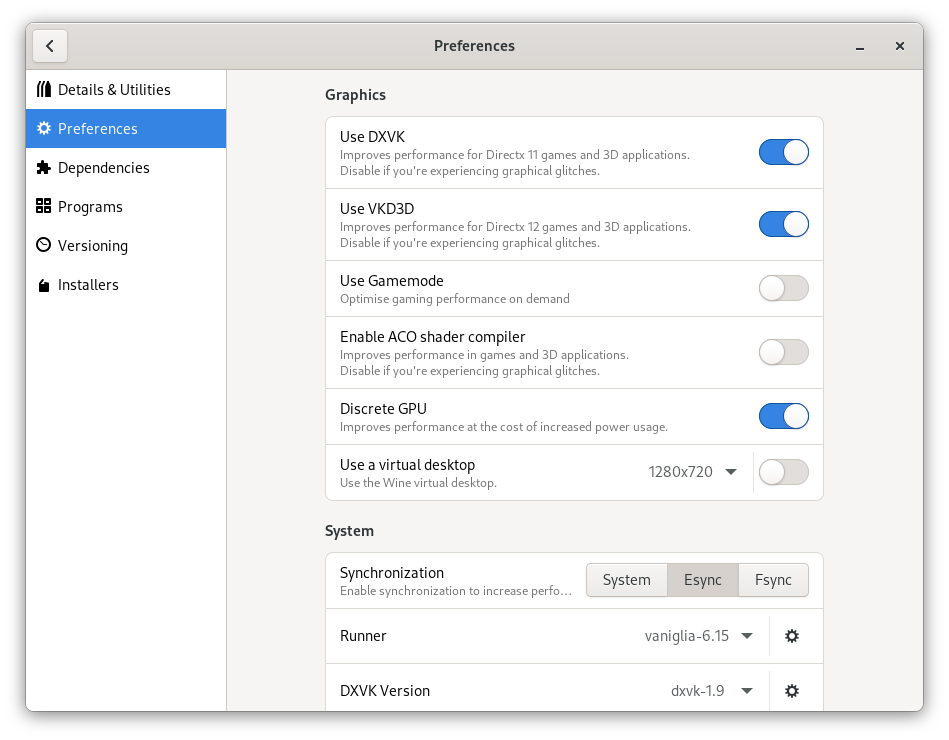
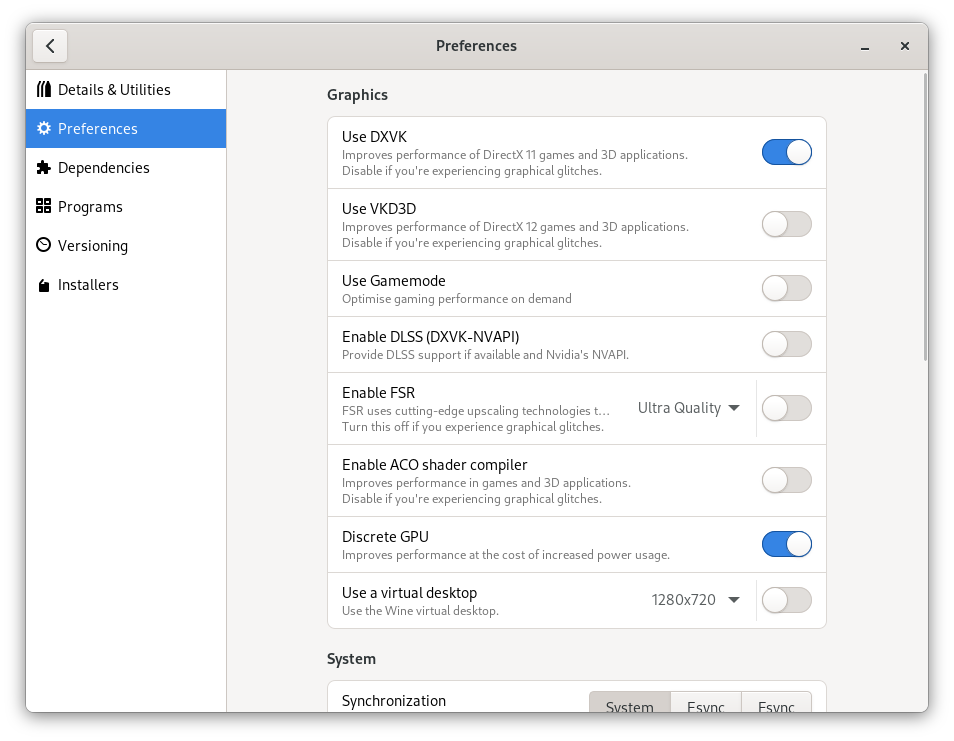
update features and colors

diff --git a/assets/css/style.css b/assets/css/style.css
@@ -30,9 +30,9 @@ article .more {
 }
 
 .mdi {
-    position: relative;
-    top: 6px;
-    margin: -9px 0 0 0;
+    /* position: relative; */
+    /* top: 6px; */
+    /* margin: -9px 0 0 0; */
 }
 
 nav {
@@ -45,6 +45,7 @@ nav {
     align-items: center;
     justify-content: space-between;
     gap: 5px;
+    border-bottom: 1px solid #f2f3f3;
 }
 
 nav a>img {
@@ -70,6 +71,20 @@ nav a.button {
     color: #fff;
     border-radius: .3rem;
     display: flex;
+    align-items: center;
+    gap: 10px;
+}
+
+.button.secondary {
+    background-color: #515d70;
+}
+
+.button.secondary:hover {
+    background-color: #434d5c;
+}
+
+.button.secondary:active,.button.secondary:focus {
+    background-color: #353d48;
 }
 
 article .button {
@@ -126,10 +141,13 @@ section p {
 }
 
 section .button {
-    display: inline-block;
+    display: inline-flex;
     font-size: 20px;
-    padding: .8rem 1.5rem;
+    padding: .8rem 1.2rem;
     font-weight: 500;
+    gap: 5px;
+    align-items: center;
+    justify-content: center;
 }
 
 section.hero h1 strong {
@@ -256,6 +274,8 @@ table td b {
     padding: .2rem .6rem;
     color: #FFF;
     font-size: 14px;
+    font-weight: 500;
+    letter-spacing: .5px;
 }
 
 span.tag.tag-Fonts {
@@ -512,7 +532,12 @@ section.downloads .container>.image img {
     width: 100%;
 }
 
-.page.blog article:first-of-type, .button:not(.link), .card, .modal>div, .next, .message {
+.page.blog article:first-of-type,
+.button:not(.link),
+.card,
+.modal>div,
+.next,
+.message {
     box-shadow: 0 1px 3px rgb(0 0 0 / 10%), 0 5px 10px rgb(0 0 0 / 6%);
 }
 
@@ -547,10 +572,9 @@ section.heading .background {
 
 .button.icon-slot .mdi {
     background-color: #0000003d;
-    top: 7px;
     padding: 5px;
     width: 30px;
-    margin: -14px 7px 0 0;
+    margin: -8px 0;
     border-top-left-radius: .3rem;
     border-bottom-left-radius: .3rem;
     text-align: center;
@@ -691,6 +715,9 @@ section.heading .background {
 
 .feature-display .description h2 {
     font-size: 2.2em;
+    display: flex;
+    align-items: center;
+    gap: 10px;
 }
 
 nav ul {
@@ -730,7 +757,10 @@ nav ul {
     text-align: center;
 }
 
-input[type="text"],input[type="email"],input[type="password"],input[type="search"] {
+input[type="text"],
+input[type="email"],
+input[type="password"],
+input[type="search"] {
     font-size: 21px;
     padding: 10px;
     min-width: 510px;
@@ -740,9 +770,9 @@ input[type="text"],input[type="email"],input[type="password"],input[type="search
     box-shadow: 0 1px 3px rgb(0 0 0 / 10%), 0 5px 10px rgb(0 0 0 / 6%), 0 1px 0 0 #d7d7d7;
 }
 
-input[type="text"]:focus, 
-input[type="email"]:focus, 
-input[type="password"]:focus, 
+input[type="text"]:focus,
+input[type="email"]:focus,
+input[type="password"]:focus,
 input[type="search"]:focus {
     border-color: #1c71d8;
     box-shadow: 0 0 13px 0 #2263db66, 0 1px 3px rgb(0 0 0 / 10%), 0 5px 10px rgb(0 0 0 / 6%), 0 1px 0 0 #d7d7d7;
@@ -803,6 +833,90 @@ input[type="search"]:focus {
 
 .card-content .actions a:hover {
     color: #1c71d8;
+}
+
+.feature-display.invert {
+    flex-direction: row-reverse;
+}
+
+.feature-display.center {
+    display: flex;
+    flex-direction: column;
+    align-items: center;
+    align-content: center;
+    margin: 0 auto;
+}
+
+.feature-display.center .description {
+    text-align: center;
+    max-width: 700px;
+    padding: 0;
+}
+
+.feature-display.has-icon > .mdi {
+    font-size: 5em;
+}
+
+.feature-display.center .description h2 {
+    justify-content: center;
+}
+
+.feature-display .description h2 .mdi {
+    font-size: 1em;
+}
+
+.hero.yellow {
+    background: #f2d6a9;
+}
+
+.hero.yellow .button {
+    background-color: #7c6b50;
+}
+
+.hero.yellow .button:hover {
+    background-color: #726349;
+}
+
+.hero.yellow .tag,
+.hero.yellow .button:active,
+.hero.yellow .button:focus {
+    background-color: #685739;
+}
+
+.hero.blue {
+    background: #c2d9eb;
+}
+
+.hero.blue .button {
+    background-color: #52595e;
+}
+
+.hero.blue .button:hover {
+    background-color: #4b5256;
+}
+
+.hero.blue .tag,
+.hero.blue .button:active,
+.hero.blue .button:focus {
+    background-color: #3f464a;
+}
+
+.hero.orange {
+    background: #f8bea8;
+}
+
+.hero.orange .button {
+    background-color: #a17c6f;
+}
+
+.hero.orange .button:hover {
+    background-color: #8f6d62;
+}
+
+.hero.orange .tag,
+.hero.orange .button:active,
+.hero.orange .button:focus {
+    background-color: #7a5d53;
 }
 
 
@@ -877,14 +991,16 @@ input[type="search"]:focus {
     .feature-display {
         display: block;
     }
-    
+
     .feature-display .description {
         padding: 0 20px;
     }
 }
 
 @media screen and (max-width:860px) {
-    nav, nav ul {
+
+    nav,
+    nav ul {
         text-align: center;
         flex-direction: column;
     }

diff --git a/index.html b/index.html
@@ -21,20 +21,80 @@ description: Run Windows programs on Linux.
     <a class="button" href="/download" title="Download Bottles"><span class="mdi material-icons-outlined"> file_download </span>Download</a>
     <div class="more-links">
       <a href="https://flathub.org/apps/details/com.usebottles.bottles">Flathub</a> | 
-      <a href="https://snapcraft.io/bottles">Snapcraft</a> | 
+      <!--<a href="https://snapcraft.io/bottles">Snapcraft</a> | -->
       <a href="https://aur.archlinux.org/packages/bottles/">AUR</a>
     </div>
     <img class="animate__animated animate__fadeInUp" src="https://raw.githubusercontent.com/bottlesdevs/Bottles/master/screenshot.png" />
   </div>
 </section>
 
-<section class="hero">
+<section class="hero yellow">
   <div class="feature-display">
     <div class="description">
-      <h2>Highly tweakable</h2>
+      <h2>Empowered by <u>environments</u></h2>
+      <p>Bottles introduces a new way to handle Windows prefixes using 
+        environments, a combination of ready-to-use settings, libraries and 
+        dependencies.</p>
+      <p>Choose between <span class="tag">Gaming</span> and 
+        <span class="tag">Software</span> environment based on the type of 
+        software you want to start.</p>
+      <p>More advanced users can choose the <span class="tag">Custom</span> 
+        environment to configure the bottle on their own.</p>
+      <a href="https://docs.usebottles.com/getting-started/environments" 
+         class="button">
+        More about</a>
+    </div>
+    <img alt="Bottles highly customisable" src="/uploads/bottles-environments.png" />
+</section>
+
+<section class="hero invert blue">
+  <div class="feature-display invert">
+    <div class="description">
+      <h2>Highly <u>tweakable</u></h2>
       <p>Customize your Windows environment with ease.</p>
-      <p>Choose whether to use dxvk, vkd3d, gamemode, esync, fsync or other, Bottles will handle it all for you.</p>
+      <p>Choose whether to use dxvk, vkd3d, gamemode, esync, fsync or other, 
+        Bottles will handle it all for you.</p>
       <p>Change runners on the fly or install new ones for all your tests.</p>
+      <a href="https://docs.usebottles.com/getting-started/environments" 
+         class="button">
+        More about</a>
     </div>
     <img alt="Bottles highly customisable" src="/uploads/bottles-customizable.png" />
+</section>
+
+<section class="hero orange">
+  <div class="feature-display">
+    <div class="description">
+      <h2>Integrated <u>dependency manager</u></h2>
+      <p>Windows software need dependencies to properly works.</p>
+      <p>Bottles comes with a powerful and easy-to-use dependency manager that 
+        automates this task.</p>
+      <p>Just look for the package you need and then "install", Bottles will 
+        take care of everything for you.</p>
+      <a href="https://docs.usebottles.com/getting-started/environments" 
+          class="button">
+        More about</a>
+    </div>
+    <img alt="Bottles highly customisable" src="/uploads/bottles-dependencies-manager.png" />
+</section>
+
+<section class="hero">
+  <div class="feature-display center">
+    <div class="description">
+      <h2>
+        <span class="mdi material-icons-outlined"> security </span>
+        Safe. <u>Sandboxed.</u>
+      </h2>
+      <p>Your bottles are isolated from the system and will only hit your 
+        personal files when you decide.</p>
+      <p>The full-sandbox is provided and pre-configured only using the 
+        <a href="https://flathub.org/apps/details/com.usebottles.bottles">
+          Flatpak package</a> (highly recommended).</p>
+      <p>All other packages still have access to the partial sandbox which 
+        isolates the bottle files and prevents them from accessing your 
+        homedir.</p>
+      <a href="https://docs.usebottles.com/getting-started/environments" 
+          class="button secondary">
+        More about</a>
+    </div>
 </section>

diff --git a/_includes/head.html b/_includes/head.html
@@ -1,5 +1,6 @@
 <meta charset="UTF-8">
 <meta name="viewport" content="width=device-width, initial-scale=1.0">
 <title>{% if page.title %}{{ page.title }} &sdot; {% endif %}{{ site.title }}</title>
-<link rel="stylesheet" type="text/css" href="{{ site.assets }}/css/style.css?v13" />
+<link rel="stylesheet" type="text/css" href="{{ site.assets }}/css/style.css?v14" />
+<script src="{{ site.assets }}/js/scripts.js?v1"></script>
 <meta name="description" content="{{ page.description }}">

diff --git a/_includes/posts-listing.html b/_includes/posts-listing.html
@@ -1,7 +1,7 @@
 {% assign post = include.post %}
 {% assign date = post.date %}
 {% if post.published == true %}
-<article itemscope itemtype="https://schema.org/NewsArticle" class="hasSummary">
+<article itemscope itemtype="https://schema.org/NewsArticle" class="hasSummary m-a">
     {% if post.thumb != nil %}
         <meta itemprop="image" content="{{ post.thumb }}" hidden />
     {% endif %}

diff --git a/download.md b/download.md
@@ -16,15 +16,14 @@ description: Download Bottles for your Linux distribution
          href="https://github.com/bottlesdevs/Bottles/releases/tag/2021.10.14-treviso-2" 
          title="Download Bottles (.AppImage/.deb)">Download</a>
       <a class="button link"
-         href="https://snapcraft.io/bottles" 
-         title="Download Bottles from Snapcraft">Snapcraft</a>
+         href="https://flathub.org/apps/details/com.usebottles.bottles" 
+         title="Download Bottles from Flathub">Flathub</a>
       <div class="more-links">
-        <a href="https://github.com/bottlesdevs/Bottles#build-with-meson-construction_worker">Source code</a> | 
-        <a href="https://flathub.org/apps/details/com.usebottles.bottles">Flathub</a> | 
+        <a href="https://docs.usebottles.com/getting-started/installation#other-packages">Source code</a> | 
         <a href="https://aur.archlinux.org/packages/bottles/">AUR</a> | 
         <a href="https://github.com/bottlesdevs/Bottles/releases/">Deb</a> | 
         <a href="https://github.com/bottlesdevs/Bottles/actions">Unstable</a> | 
-        <a href="https://github.com/bottlesdevs/Bottles#unofficial-packages">Unofficial packages</a>
+        <a href="https://forums.usebottles.com/d/6-list-of-unofficial-packages">Unofficial packages</a>
       </div>
     </div>
   </div>
